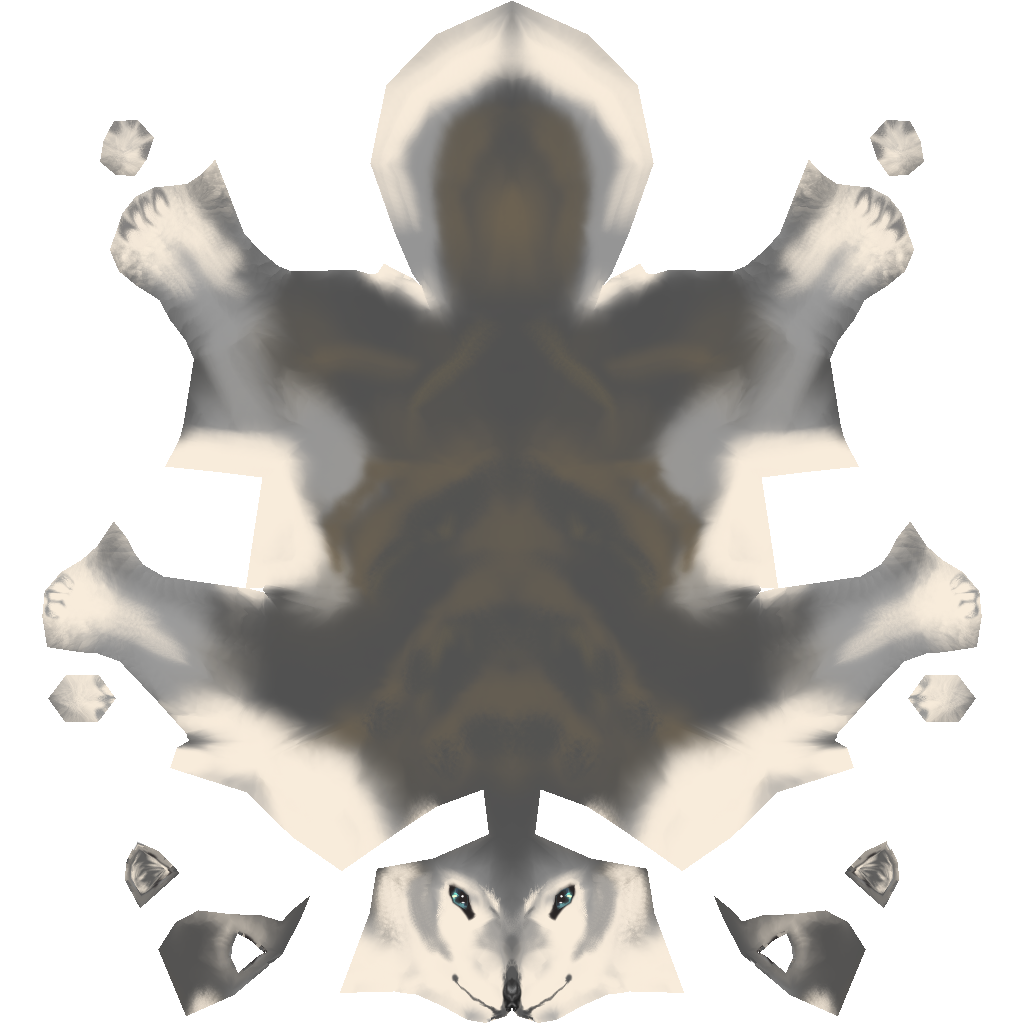
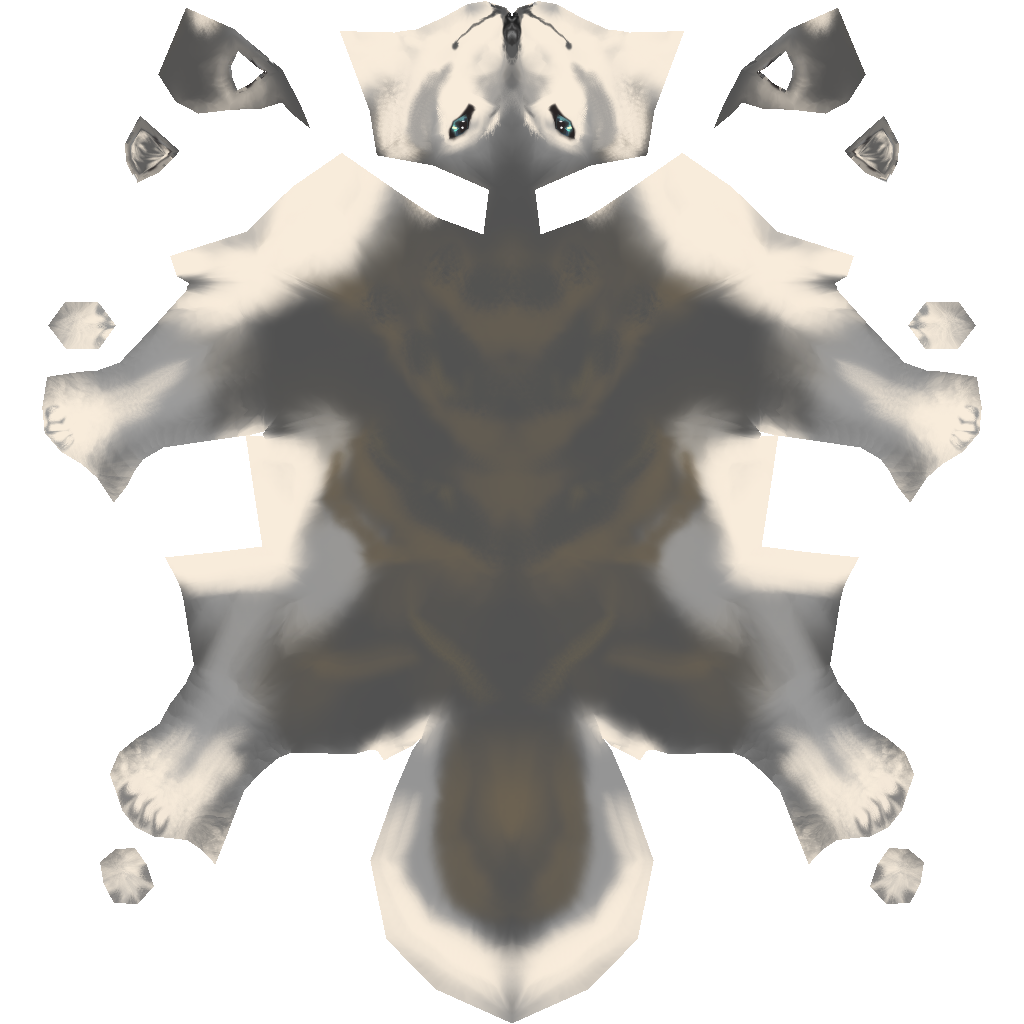
Flip texture images for better mapping

diff --git a/src/script.js b/src/script.js
@@ -45,8 +45,8 @@ ready(function() {
   // Add light to scene
   const hemlight = new THREE.HemisphereLight(0xfff0f0, 0x606066, 0.5);
   const spotlight = new THREE.SpotLight(0xffffff);
-  hemlight.position.set(1, 1, 1);
-  spotlight.position.set(10000, 10000, 50000);
+  hemlight.position.set(10, 10, 10);
+  spotlight.position.set(10000, 10000, 10000);
   spotlight.castShadow = true;
   spotlight.shadow.bias = 0.0001;
   spotlight.shadow.mapSize.width = 2048;
